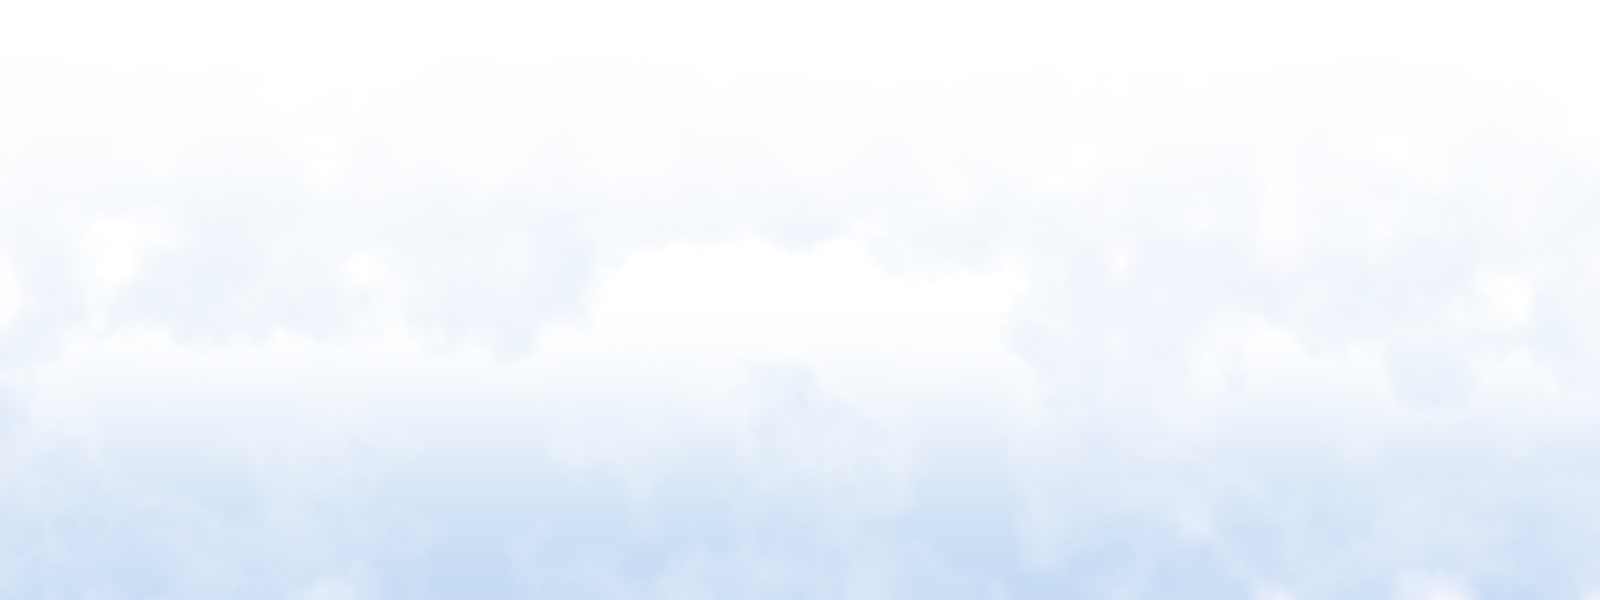
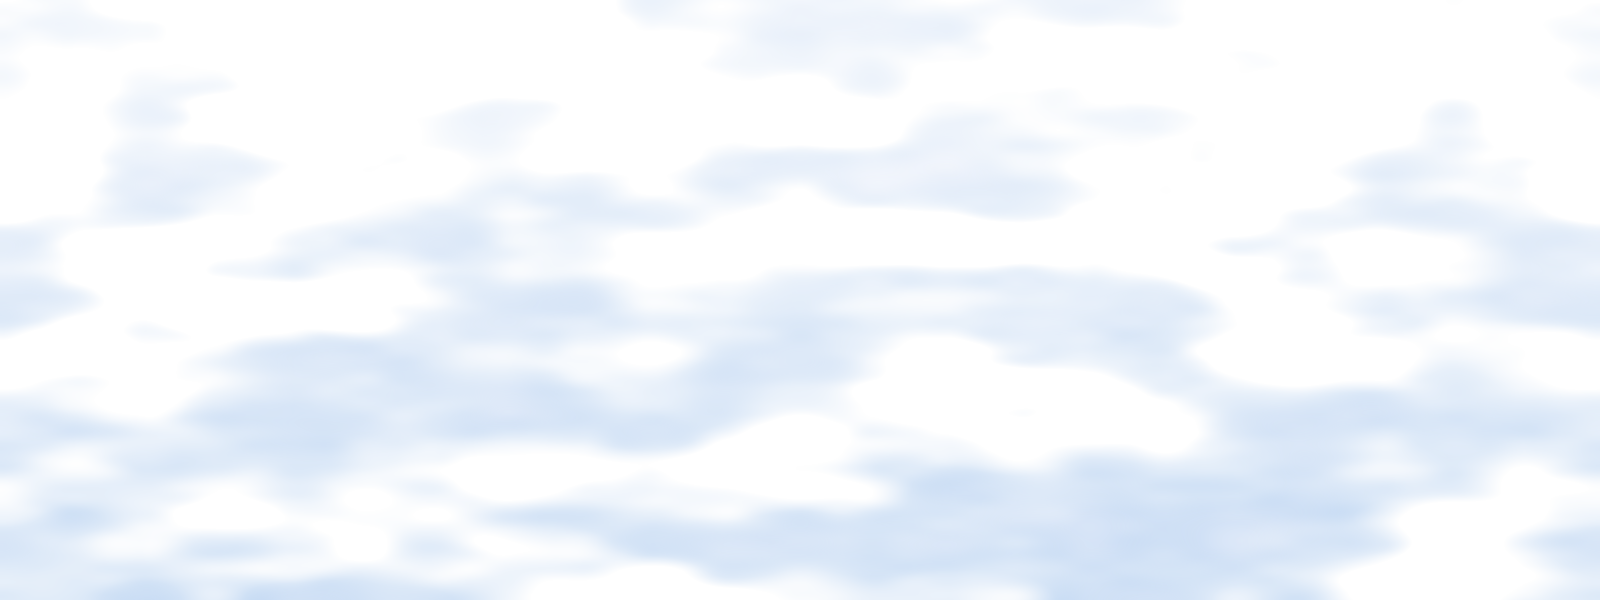
Fix costura y pixelado del fondo en pantallas grandes
Nubes ahora se repiten en X (background-repeat) en vez de estirarse con
cover, y el fade hacia el cielo es un mask-image en CSS en vez de estar
horneado en el PNG. Antes, cover recortaba la zona de fade horneada de
forma distinta según el aspect ratio del viewport, causando una costura
dura en pantallas anchas, y escalaba el PNG de 1600px más allá de su
resolución nativa causando pixelado.

diff --git a/scripts/gen-nubes.js b/scripts/gen-nubes.js
@@ -1,10 +1,17 @@
 // Genera public/nubes.png: mar de nubes con ruido fractal (fBm), sin dependencias.
+// Tileable horizontalmente (se repite con background-repeat: repeat-x) y SIN
+// fade vertical horneado — el desvanecimiento hacia el cielo lo hace un
+// mask-image en CSS (ver globals.css), así queda independiente del viewport.
 const zlib = require("zlib");
 const fs = require("fs");
 const path = require("path");
 
 const W = 1600;
 const H = 600;
+
+// Celdas por octava a lo largo del eje X. Deben ser enteras para que el
+// ruido haga wrap exacto (hash(xi mod celdas, ...)) y el tile empate borde a borde.
+const CELDAS_X = [10, 22];
 
 function hash(x, y, seed) {
   let h = (Math.imul(x, 374761393) + Math.imul(y, 668265263) + Math.imul(seed, 144665)) | 0;
@@ -15,27 +22,30 @@ function hash(x, y, seed) {
 
 const smooth = (t) => t * t * (3 - 2 * t);
 
-function noise(x, y, seed) {
+// Ruido tileable en X: envuelve xi con módulo `celdasX` antes de hashear,
+// así noise(0, y) === noise(celdasX, y) exactamente.
+function noiseTileableX(x, y, seed, celdasX) {
   const xi = Math.floor(x), yi = Math.floor(y);
   const xf = x - xi, yf = y - yi;
-  const a = hash(xi, yi, seed), b = hash(xi + 1, yi, seed);
-  const c = hash(xi, yi + 1, seed), d = hash(xi + 1, yi + 1, seed);
+  const xi0 = ((xi % celdasX) + celdasX) % celdasX;
+  const xi1 = (xi0 + 1) % celdasX;
+  const a = hash(xi0, yi, seed), b = hash(xi1, yi, seed);
+  const c = hash(xi0, yi + 1, seed), d = hash(xi1, yi + 1, seed);
   const u = smooth(xf), v = smooth(yf);
   return a + (b - a) * u + (c - a) * v + (a - b - c + d) * u * v;
 }
 
-function fbm(x, y, seed) {
-  let sum = 0, amp = 0.5, freq = 1;
-  for (let o = 0; o < 5; o++) {
-    sum += amp * noise(x * freq, y * freq, seed + o * 101);
+function fbmTileableX(x, y, seed) {
+  let sum = 0, amp = 0.5;
+  for (let o = 0; o < CELDAS_X.length; o++) {
+    const celdas = CELDAS_X[o];
+    sum += amp * noiseTileableX(x * celdas, y * celdas, seed + o * 101, celdas);
     amp *= 0.5;
-    freq *= 2;
   }
   return sum;
 }
 
 const clamp01 = (v) => Math.min(1, Math.max(0, v));
-const smoothstep = (a, b, t) => smooth(clamp01((t - a) / (b - a)));
 const lerp = (a, b, t) => a + (b - a) * t;
 
 const raw = Buffer.alloc(H * (1 + W * 4));
@@ -43,22 +53,19 @@ let p = 0;
 for (let y = 0; y < H; y++) {
   raw[p++] = 0; // filtro PNG: none
   const fy = y / H;
-  // aparece gradualmente desde arriba, denso abajo
-  const ramp = smoothstep(0.08, 0.55, fy);
-  const relleno = smoothstep(0.5, 1.0, fy) * 0.65;
   for (let x = 0; x < W; x++) {
     const fx = x / W;
-    // nubes estiradas horizontalmente (10 celdas x 4 celdas)
-    const v = fbm(fx * 10, fy * 4 + 20, 7);
-    const v2 = fbm(fx * 22, fy * 9 + 5, 31); // detalle fino
-    const nube = clamp01((v - 0.47) * 2.6 + (v2 - 0.5) * 0.55);
-    const a = clamp01(nube * ramp + relleno * ramp);
+    const v = fbmTileableX(fx, fy, 7);
+    const v2 = fbmTileableX(fx * 2, fy * 2 + 3.7, 31); // detalle fino
+    // más denso hacia abajo (sin llegar a un "aparecer" gradual: ya son nubes formadas)
+    const densidad = lerp(0.06, 0.32, fy);
+    const nube = clamp01((v - (0.5 - densidad)) * 2.6 + (v2 - 0.5) * 0.55);
     // sombras azuladas → cimas blancas
     const t = clamp01((v - 0.38) * 2.4);
     raw[p++] = Math.round(lerp(168, 255, t)); // R
     raw[p++] = Math.round(lerp(200, 253, t)); // G
     raw[p++] = Math.round(lerp(238, 255, t)); // B
-    raw[p++] = Math.round(a * 255);
+    raw[p++] = Math.round(nube * 255);
   }
 }
 
@@ -95,6 +102,6 @@ const png = Buffer.concat([
   chunk("IEND", Buffer.alloc(0)),
 ]);
 
-const dest = path.join("C:\\Users\\liber\\OneDrive\\Documentos\\Blue day", "public", "nubes.png");
+const dest = path.join(__dirname, "..", "public", "nubes.png");
 fs.writeFileSync(dest, png);
 console.log("nubes.png generado:", png.length, "bytes");

diff --git a/components/Cielo.tsx b/components/Cielo.tsx
@@ -82,18 +82,21 @@ function ConstelacionMichi({
   );
 }
 
-// Mar de nubes: PNG pregenerado con ruido fractal (el fade desde arriba va
-// horneado en la imagen). Filtros SVG en vivo saturaban el renderer.
+// Mar de nubes: PNG pregenerado con ruido fractal, tileable en X (se repite
+// en vez de estirarse — nunca se pixela sin importar el ancho de pantalla).
+// El fade hacia el cielo es un mask-image en CSS (ver .nubes en globals.css),
+// así queda igual de suave en cualquier tamaño de viewport.
 function Nubes() {
   return (
-    <div className="pointer-events-none absolute inset-x-0 bottom-0 h-[38vh]">
+    <div className="nubes pointer-events-none absolute inset-x-0 bottom-0 h-[38vh]">
       {/* línea de luz donde el cielo toca las nubes */}
       <div className="horizonte absolute inset-x-0 top-[18%] h-16" />
       <div
         className="absolute inset-0"
         style={{
           backgroundImage: "url(/nubes.png)",
-          backgroundSize: "cover",
+          backgroundRepeat: "repeat-x",
+          backgroundSize: "auto 100%",
           backgroundPosition: "center bottom",
         }}
       />

diff --git a/app/globals.css b/app/globals.css
@@ -84,6 +84,13 @@ body {
 }
 
 /* ---- mar de nubes ---- */
+.nubes {
+  /* fade hacia el cielo independiente del viewport: opera sobre los píxeles
+     ya renderizados del contenedor, no sobre el PNG crudo debajo */
+  mask-image: linear-gradient(to bottom, transparent 0%, black 42%);
+  -webkit-mask-image: linear-gradient(to bottom, transparent 0%, black 42%);
+}
+
 .horizonte {
   background: linear-gradient(
     to bottom,